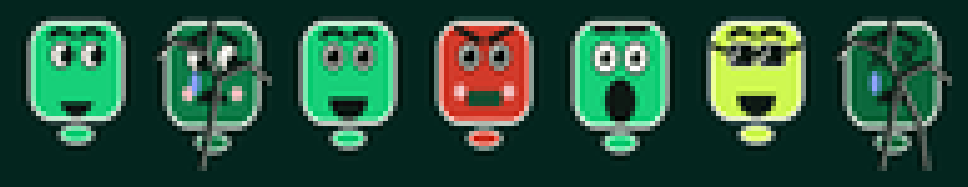
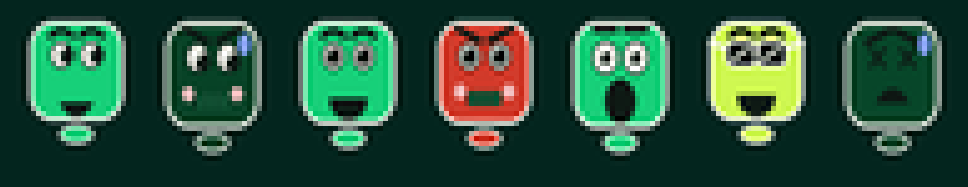
Face: drop cracks, darken + strain with damage, clearer god-mode shades
The face no longer covers itself in cracks as health drops; instead the logo
goes darker and more strained (furrowed brows, grimace, flushed cheeks, a sweat
bead). Sunglasses redrawn bolder so they read as shades at HUD size.

diff --git a/README.md b/README.md
@@ -37,7 +37,7 @@ Pick your tool.
 
 It does not handle stress well.
 
-![The animated Token DOOM player face](docs/faces.png?v=2)
+![The animated Token DOOM player face](docs/faces.png?v=3)
 
 ## Difficulty
 